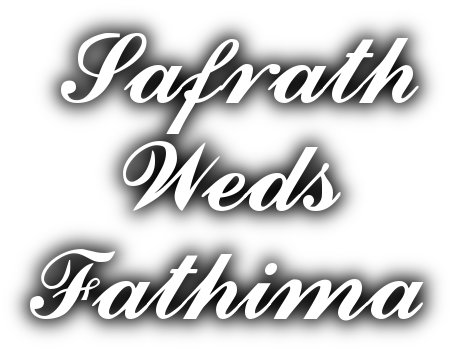
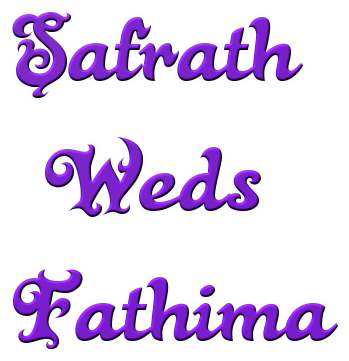
1

diff --git a/index-content.html b/index-content.html
@@ -73,15 +73,14 @@
                 <div class="container">
                     <div class="br-rsvp__intro_content">
                         <div class="br-rsvp__intro_content-title">
-                            <!-- <img id="thumb-icon" class="br-rsvp__intro_content-title_img" src="./index-content_files/br-title_large.png" title="Safrath & Fathima"> -->
-                            <!-- <p style="color: white;font: 500 100px/0.8 'Edwardian Script ITC', Helvetica, sans-serif;transform: rotate(-25deg);margin-bottom: 23%;">  -->
-                                <p style="color: rgb(165, 47, 139);font: 500 100px/0.8 'Edwardian Script ITC', Helvetica, sans-serif;margin-bottom: 23%;"> 
+                            <img id="thumb-icon" class="br-rsvp__intro_content-title_img" src="./index-content_files/br-title_large.png" title="Safrath & Fathima">
+                            <!-- <p style="color: white;font: 500 100px/0.8 'Edwardian Script ITC', Helvetica, sans-serif;transform: rotate(-25deg);margin-bottom: 23%;"> 
                                 Safrath
                              <br>
                              Weds
                              <br>
                              Fathima
-                            </p>
+                            </p> -->
                         </div>
                         <h1 id="demo"></h1>
                     </div>

diff --git a/assets/styles/main.min.css b/assets/styles/main.min.css
@@ -1493,7 +1493,7 @@
 .br-rsvp__form_guest-footer{width:970px}}@media only screen and (min-device-width:768px) and (max-device-width:1024px){.br-rsvp__bridalParty__filter{display:none}}
 
 #demo {
-   color: white;
+   color: #4d3535;
    font-family: 'Alex Brush',myriad-pro,sans-serif,Helvetica Neue,Helvetica;
    font-size: 35pt;
 }
